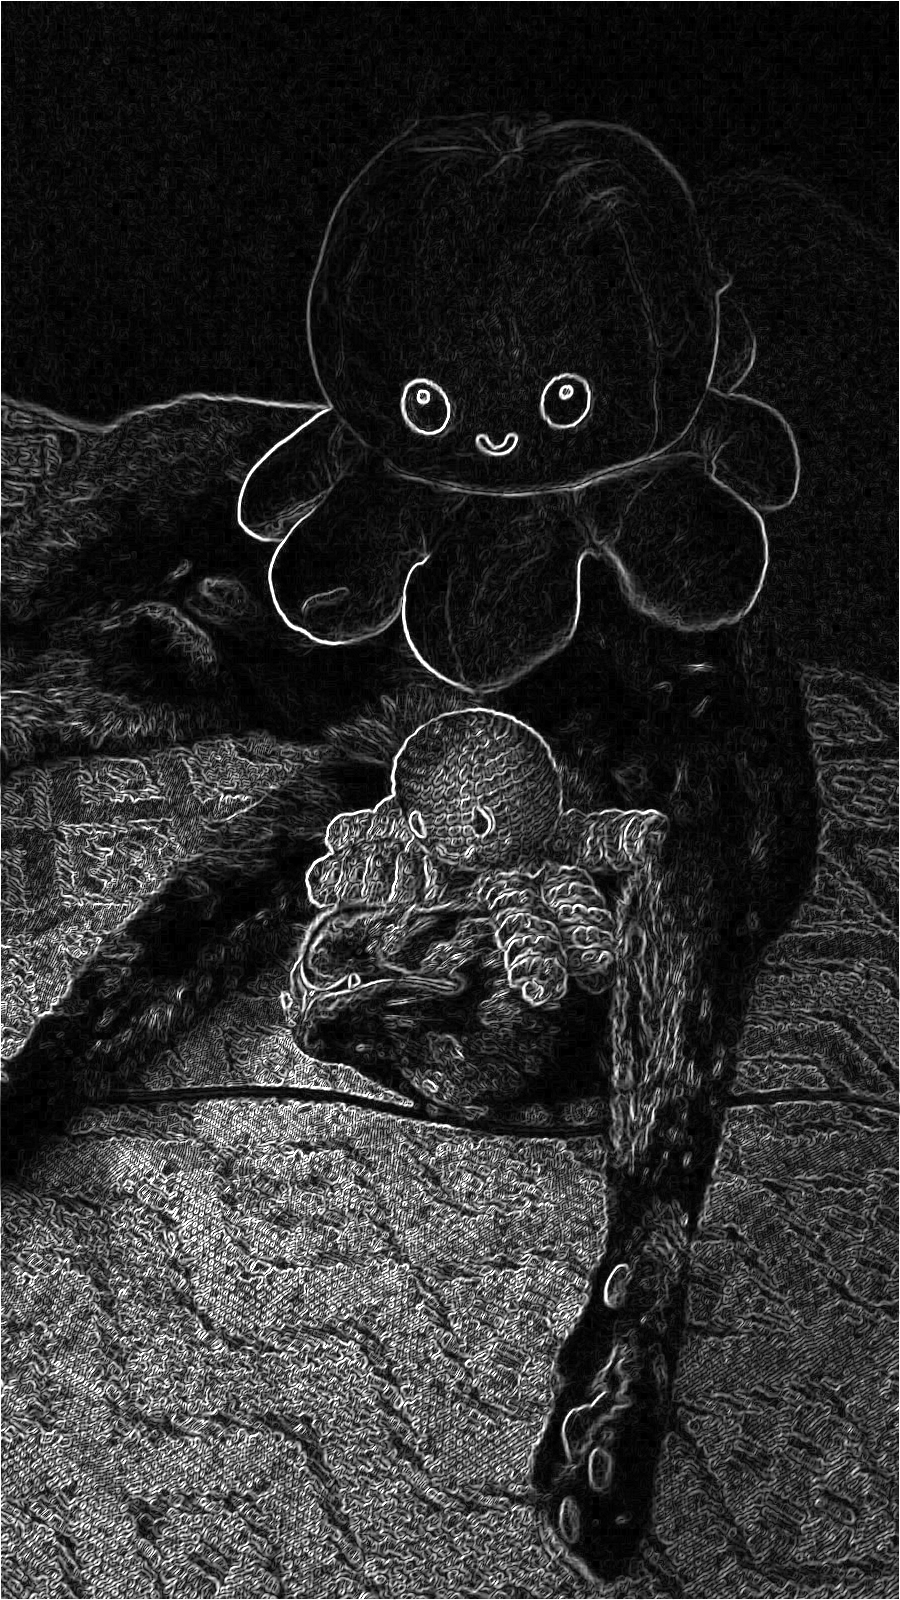
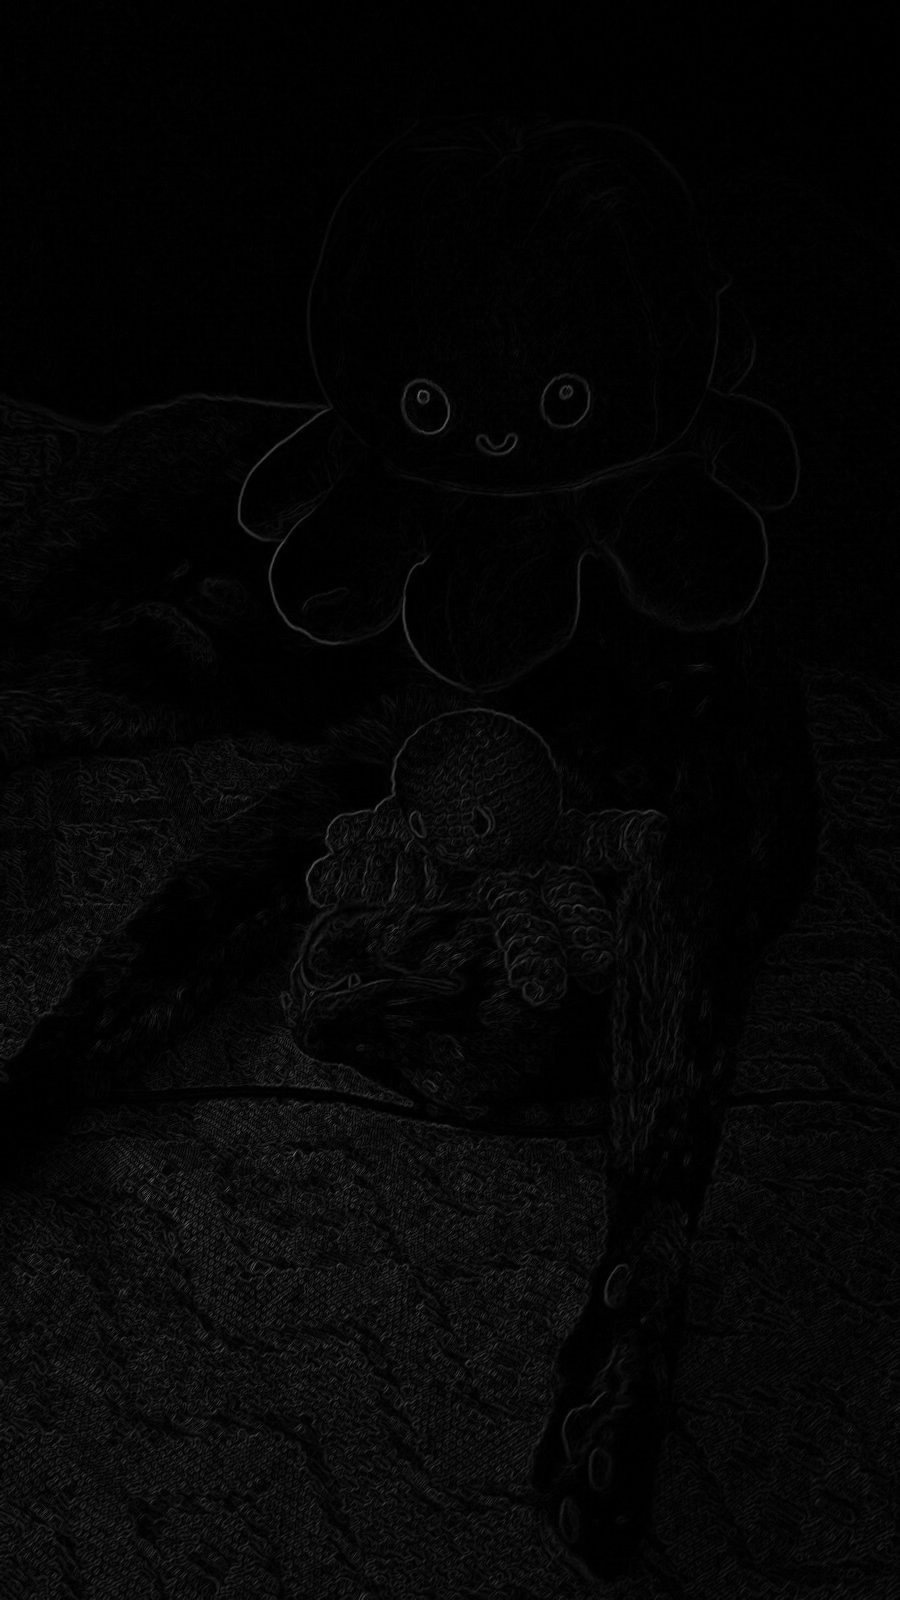
gradient

diff --git a/src/transforms.rs b/src/transforms.rs
@@ -44,6 +44,10 @@ pub trait Transform {
 
     fn rotation(&mut self, theta: f64, px: i32, py: i32, interpolation: Interpolation);
 
+    fn derivative_x(&self, x: u32, y: u32) -> f64;
+
+    fn derivative_y(&self, x: u32, y: u32) -> f64;
+
     fn gradient_edge(&mut self);
 
     fn sobel(&mut self);
@@ -327,8 +331,49 @@ impl Transform for PixelArray {
         todo!()
     }
 
+    fn derivative_x(&self, x: u32, y: u32) -> f64 {
+        let (x, y) = (x as usize, y as usize);
+        let width = self.width() as usize;
+
+        if width <= 1 {
+            0.0
+        } else if x == 0 {
+            self.get(y, 1) - self.get(y, 0)
+        } else if x == width - 1 {
+            self.get(y, x) - self.get(y, x - 1)
+        } else {
+            (self.get(y, x + 1) - self.get(y, x - 1)) * 0.5
+        }
+    }
+
+    fn derivative_y(&self, x: u32, y: u32) -> f64 {
+        let (x, y) = (x as usize, y as usize);
+        let height = self.height() as usize;
+
+        if height <= 1 {
+            0.0
+        } else if y == 0 {
+            self.get(1, x) - self.get(0, x)
+        } else if y == height - 1 {
+            self.get(y, x) - self.get(y - 1, x)
+        } else {
+            (self.get(y + 1, x) - self.get(y - 1, x)) * 0.5
+        }
+    }
+
     fn gradient_edge(&mut self) {
-        todo!()
+        let mut copy = self.clone();
+
+        copy.par_iter_mut().enumerate().for_each(|(i, p)| {
+            let width = self.get_dimensions().0;
+            let x = i as u32 % width;
+            let y = i as u32 / width;
+            let dx = self.derivative_x(x, y);
+            let dy = self.derivative_y(x, y);
+            *p = dx.hypot(dy).clamp(0.0, 1.0);
+        });
+
+        *self = copy;
     }
 
     fn sobel(&mut self) {
@@ -337,7 +382,7 @@ impl Transform for PixelArray {
         self.gen_convolution(3, vec![-1.0, -2.0, -1.0, 0.0, 0.0, 0.0, 1.0, 2.0, 1.0]);
 
         self.par_iter_mut().enumerate().for_each(|(i, px)| {
-            let dot = (*px * *px + s2[i] * s2[i]).sqrt(); // direction -- sqrt
+            let dot = px.hypot(s2[i]);
             *px = dot.clamp(0.0, 1.0)
         });
     }

diff --git a/src/pixel_array.rs b/src/pixel_array.rs
@@ -50,10 +50,22 @@ impl PixelArray {
         &mut self.buffer
     }
 
+    #[inline]
+    pub fn width(&self) -> u32 {
+        self.width
+    }
+
+    #[inline]
+    pub fn height(&self) -> u32 {
+        self.height
+    }
+
+    #[inline]
     pub fn get_dimensions(&self) -> (u32, u32) {
         (self.width, self.height)
     }
 
+    #[inline]
     pub fn set_dimensions(&mut self, width: u32, height: u32) {
         self.width = width;
         self.height = height;

diff --git a/examples/transform.rs b/examples/transform.rs
@@ -6,6 +6,6 @@ fn main() {
     let mut args: Vec<String> = env::args().collect();
     let mut img = PixelArray::from_path(args.pop().unwrap()).unwrap();
 
-    img.sobel();
+    img.gradient_edge();
     img.into_luma8().save("transformed.png").unwrap();
 }
